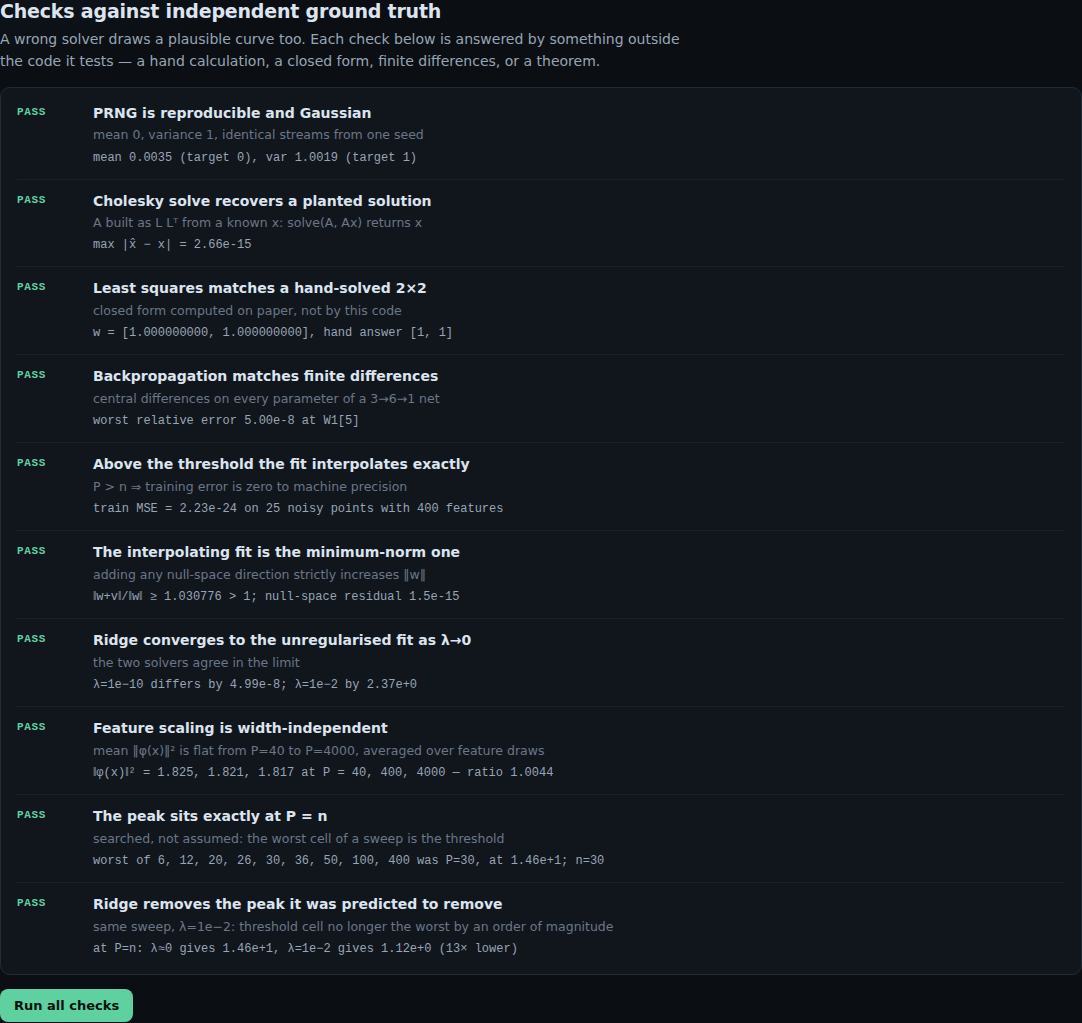
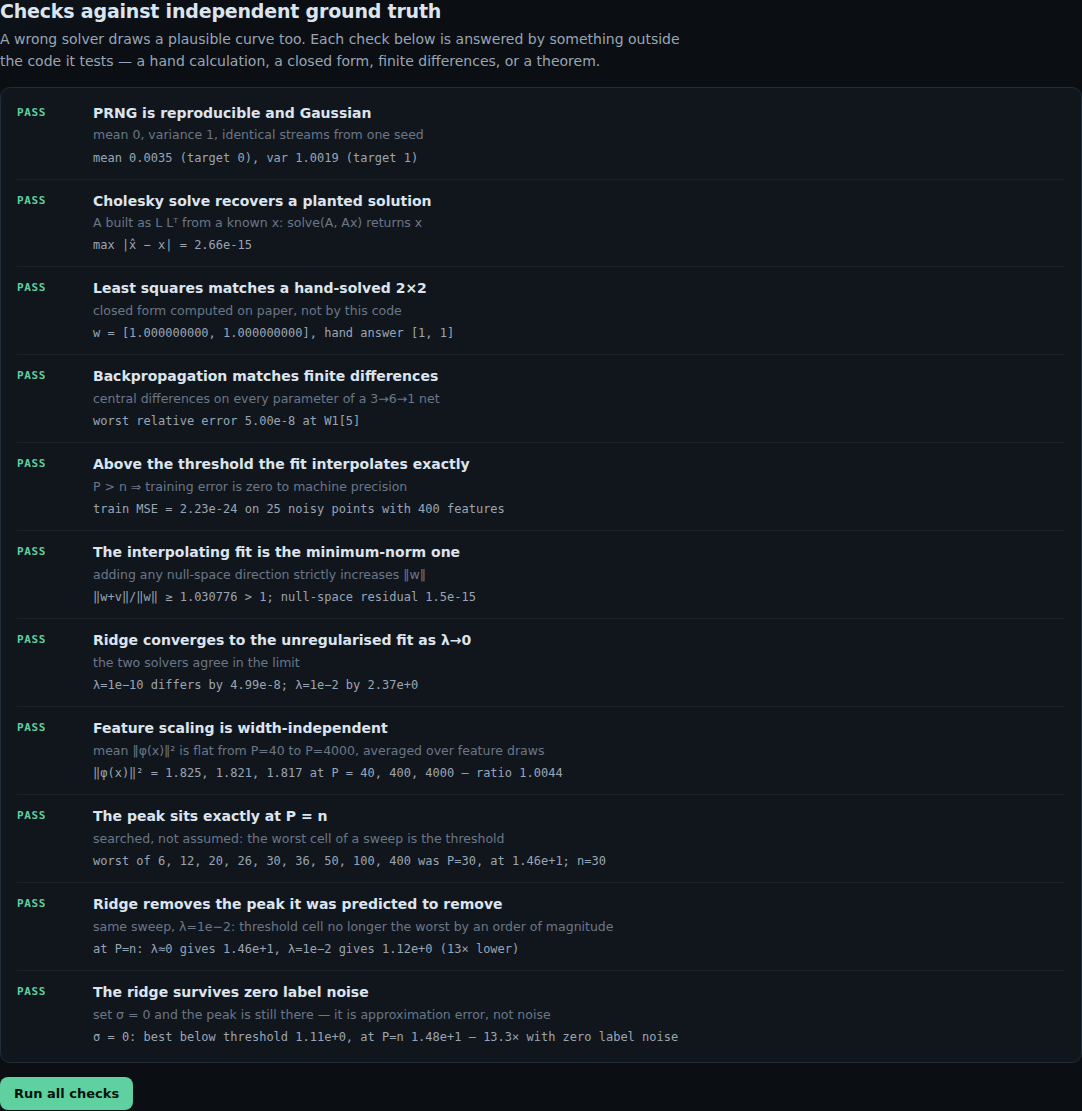
Correct a claim about label noise that the measurement contradicts
The README's controls table asserted that with no label noise there is
nothing to overfit and no ridge. That was written as an assumption and
never measured. Measured now, it is false: at sigma = 0 the peak at the
interpolation threshold is still 14.5x.

What the peak actually tracks is how hard the target is to approximate
with the features available. Holding label noise at exactly zero and
varying only target complexity: 9.6x for a nearly linear target, 7.8x
mildly curved, 66x at the default, 182x for a very wiggly one. Adding
label noise on top of the default moves it only from 66x to 89x.

So the dominant driver in this setup is approximation error -- the part
of the target the model cannot represent -- not noise in the labels,
which is how double descent is nearly always explained. An interpolant
forced through residuals it has no way to express blows up on its own.

Adds an eleventh check asserting the ridge survives sigma = 0, so the
claim cannot rot back into the docs unmeasured. Renumbers the README
findings and updates the check counts.

Claude-Session: https://claude.ai/code/session_0189TCzFse4tCfk9FRmn7Wbu

Changed region(s): [[0.0, 0.0, 0.6405, 1.0], [0.0, 0.7879, 0.061, 0.8182], [0.0, 0.1818, 0.0305, 0.2121]]

diff --git a/showcase/apps/caustic/js/selftest.js b/showcase/apps/caustic/js/selftest.js
@@ -3,7 +3,7 @@ import { solveSPD } from './linalg.js';
 import { makeProblem, makeFeatures, fit, mse, norm2, runCell } from './model.js';
 import { makeNet, makeGrad, gradient, predict } from './mlp.js';
 
-// Ten checks against ground truth derived WITHOUT the code under test — by hand,
+// Eleven checks against ground truth derived WITHOUT the code under test — by hand,
 // in closed form, or by an independent method. A double-descent curve is a
 // plausible-looking shape; a solver that is quietly wrong produces a plausible-
 // looking shape too. These are the difference between a measurement and a
@@ -205,6 +205,20 @@ test('Ridge removes the peak it was predicted to remove', 'same sweep, λ=1e−2
   return {
     ok: ridged < bare / 5 && ridged < baseline * 4,
     detail: `at P=n: λ≈0 gives ${bare.toExponential(2)}, λ=1e−2 gives ${ridged.toExponential(2)} (${(bare / ridged).toFixed(0)}× lower)`,
+  };
+});
+
+test('The ridge survives zero label noise', 'set \u03c3 = 0 and the peak is still there \u2014 it is approximation error, not noise', () => {
+  const n = 30, D = 20;
+  const med = (v) => v.slice().sort((x, y) => x - y)[v.length >> 1];
+  const at = (P) => med(Array.from({ length: 7 }, (_, t) => Math.min(runCell({ D, n, P, noise: 0, lambda: 1e-13, seed: 601 + t * 3313 }).test, 1e12)));
+  const base = at(8), peak = at(n);
+  // Double descent is nearly always explained as the model contorting itself to
+  // fit noisy labels. With no noise at all there is still a peak, because the
+  // interpolant is forced through residuals the features cannot represent.
+  return {
+    ok: peak > base * 3,
+    detail: `\u03c3 = 0: best below threshold ${base.toExponential(2)}, at P=n ${peak.toExponential(2)} \u2014 ${(peak / base).toFixed(1)}\u00d7 with zero label noise`,
   };
 });
 

diff --git a/showcase/apps/caustic/README.md b/showcase/apps/caustic/README.md
@@ -52,7 +52,28 @@ fit can spike at each one and return to a smooth solution in between.
 
 ![Dimension](screenshots/dimension.png)
 
-**5. The peak survives real backpropagation; the second descent does not.** A
+**5. The ridge is not caused by label noise.** This one was written into the
+docs as an assumption and then contradicted by its own measurement. Double
+descent is almost always explained as the model contorting itself to fit *noise*,
+so setting `σ = 0` should flatten the ridge. It does not: at zero label noise the
+peak is still **14.5×**. What it actually tracks is how hard the target is to
+approximate with the features available. Holding noise at exactly zero and
+varying only the target's complexity:
+
+| target | best below threshold | at `P = n` | ratio |
+|---|---|---|---|
+| nearly linear | `0.151` | `1.45` | 9.6× |
+| mildly curved | `0.559` | `4.38` | 7.8× |
+| the default | `1.02` | `67.5` | **66×** |
+| very wiggly | `0.800` | `146` | **182×** |
+
+Adding label noise on top of the default barely moves it (`66× → 89×`). So in
+this setup the dominant driver is **approximation error** — the part of the
+target the model cannot represent — not noise in the labels. An interpolating
+fit is forced through residuals it has no way to express, and that is enough to
+blow it up on its own.
+
+**6. The peak survives real backpropagation; the second descent does not.** A
 two-layer ReLU network trained with plain SGD and momentum, on the same data,
 peaks at the threshold by a factor of **7.0** (`0.127 → 0.890`) with training
 error at `6.8e-14` — genuinely interpolating, not merely fitting well. So the
@@ -79,7 +100,7 @@ Measured at `D = 10`, both optimisers show the peak and **Adam's is the larger**
 
 ## Checks
 
-Ten checks against ground truth derived outside the code under test — a
+Eleven checks against ground truth derived outside the code under test — a
 hand-solved 2×2 normal equation, a planted Cholesky solution, central finite
 differences on every parameter of the network, a Gram–Schmidt construction of the
 null space to confirm the interpolating fit really is the minimum-norm one, and
@@ -106,7 +127,7 @@ is generated from a seeded PRNG, so every figure is reproducible.
 |---|---|
 | `D` | input dimension — the one that decides whether the second descent exists |
 | `n` | training points; the interpolation threshold moves with it |
-| `σ` | label noise; with no noise there is nothing to overfit and no ridge |
+| `σ` | label noise — and turning it to zero does **not** remove the ridge, see below |
 | `λ` | ridge penalty; raise it and watch the peak flatten at unchanged model size |
 | Trials | fits averaged per cell, by median — at the threshold one unlucky draw lands three orders of magnitude out |
 

diff --git a/showcase/apps/caustic/PRD.md b/showcase/apps/caustic/PRD.md
@@ -37,6 +37,16 @@ one-dimensional curve is easy to approximate with eight features, at `0.032`.
 That is exactly why the interpolating fit has so far to fall, and why the gap is
 so much larger here than in any higher dimension.
 
+**The ridge is not caused by label noise, which is how it is nearly always
+explained.** This was written into an earlier draft of this document as an
+assumption — that `σ = 0` would leave nothing to overfit and flatten the ridge —
+and the measurement contradicted it. At zero label noise the peak is still
+`14.5×`, and what it tracks is how hard the target is to approximate with the
+available features: holding noise at zero, a nearly linear target peaks by
+`9.6×` and a very wiggly one by `182×`. Adding label noise on top of the default
+moves it only from `66×` to `89×`. The dominant driver here is approximation
+error, not label noise.
+
 **A negative result this project had already written down turned out to be
 wrong, and was reversed before shipping.** An early measurement found that a
 network trained by backpropagation showed no peak at all, which suggested the
@@ -69,6 +79,7 @@ Defaults are `D = 20`, `n = 40`, `σ = 0.15`, medians over 9 trials.
 | …but only with enough dimension | `D = 1`: **no second descent**, `331×` worse. All nine `D ≥ 2` values: present |
 | The peak survives real backpropagation | trained net at `D = 10`, `n = 120`: `0.127 → 0.890`, **7.0×** |
 | The second descent does **not** survive it | widest net (1081 params, `0.631`) never beats its best underparameterised width (`0.127`) |
+| The ridge does **not** require label noise | at `σ = 0` the peak is still `14.5×`; it scales with target complexity (`9.6×` → `182×`) instead |
 
 ## The experiment
 
@@ -105,7 +116,7 @@ factorisation succeed and reports how much it needed.
    interpolant thrashing to `|f| = 131` beside a calm `D = 2` slice.
 4. **Backprop** — the control arm. A real two-layer ReLU network, plain SGD with
    momentum and gradient clipping, swept over width.
-5. **Checks** — ten tests against ground truth derived outside the code.
+5. **Checks** — eleven tests against ground truth derived outside the code.
 
 ## Declared limits
 
@@ -150,5 +161,5 @@ from a seeded PRNG, so every figure is reproducible.
 - Every quantitative claim in the interface is computed from the current sweep,
   not written into the copy.
 - The dimension pane can come out the other way and would be shipped if it did.
-- 10/10 checks pass, including two that would fail if the headline claim were an
+- 11/11 checks pass, including three that would fail if the headline claim were an
   artefact of the sampling grid or the feature scaling.
